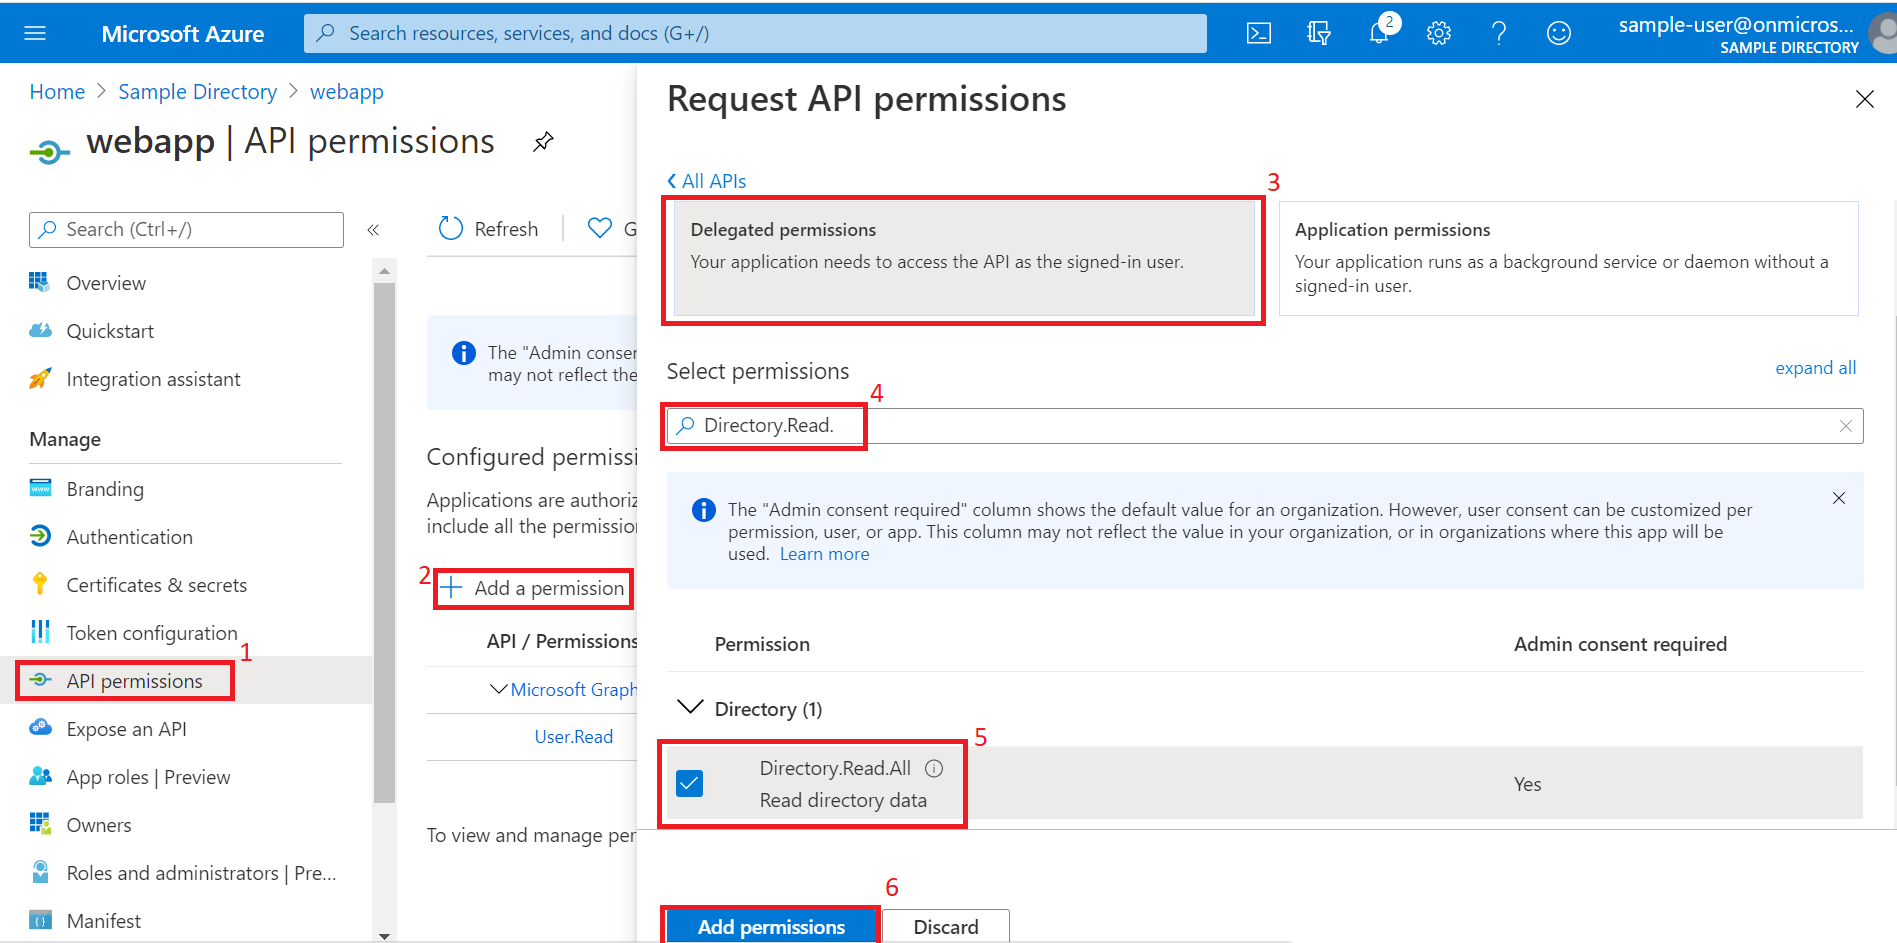
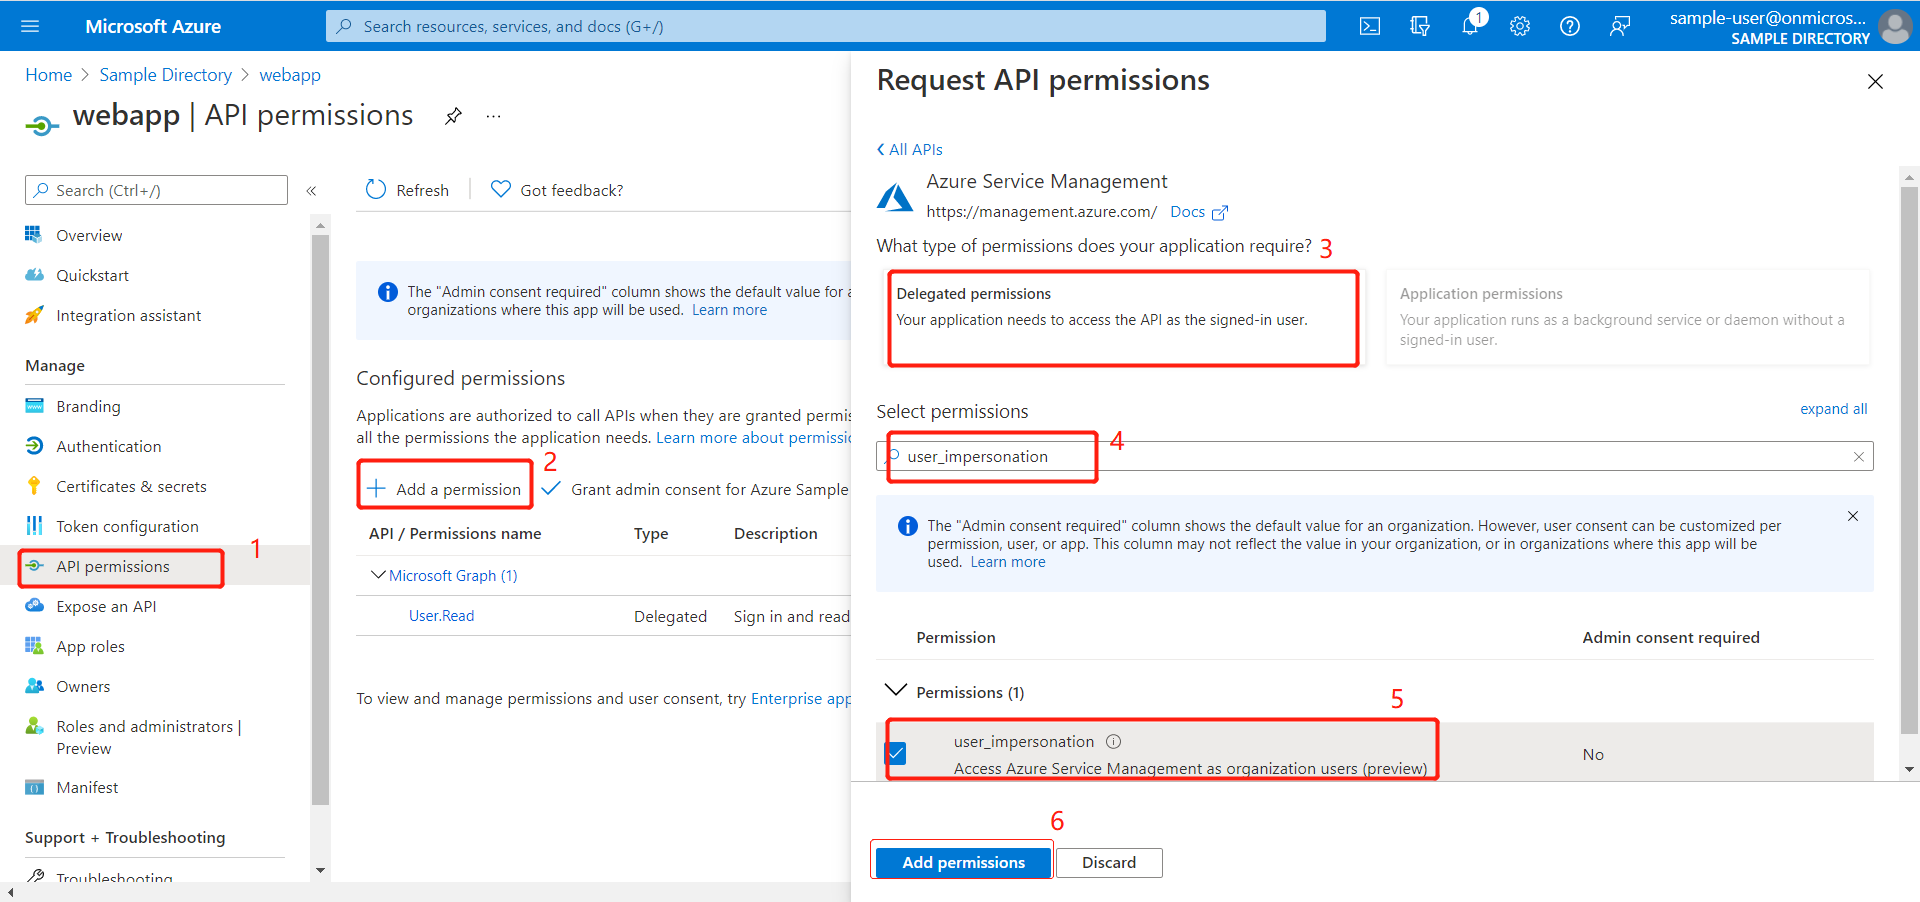
1.remove admin consent for unnecessary scope 2.add describe about appRole.

diff --git a/aad/azure-spring-boot-starter-active-directory/aad-web-application-and-resource-server/README.md b/aad/azure-spring-boot-starter-active-directory/aad-web-application-and-resource-server/README.md
@@ -22,6 +22,10 @@ We assume that when used as a Resource server, it is called `WebApiC`; when used
 
 See [Configure web application] for more information about web app.
 
+### Configure AppRoles for sign in user
+
+See [Configure AppRoles for sign in user] for more information about appRoles for sign in user.
+
 ### Configure groups for sign in user
 
 See [Configure groups for sign in user] for more information about groups for sign in user.
@@ -50,6 +54,7 @@ See [Check the authentication and authorization of Web Application] or [Check th
 [Web application and Resource server in one application]: https://github.com/Azure/azure-sdk-for-java/blob/main/sdk/spring/azure-spring-boot-starter-active-directory#web-application-and-resource-server-in-one-application
 [Configure web application]: https://github.com/Azure-Samples/azure-spring-boot-samples/tree/main/aad/azure-spring-boot-starter-active-directory/aad-web-application#configure-web-app
 [Configure groups for sign in user]: https://github.com/Azure-Samples/azure-spring-boot-samples/tree/main/aad/azure-spring-boot-starter-active-directory/aad-web-application#configure-groups-for-sign-in-user
+[Configure AppRoles for sign in user]: https://github.com/Azure-Samples/azure-spring-boot-samples/tree/main/aad/azure-spring-boot-starter-active-directory/aad-web-application#support-access-control-by-id-token-in-web-application
 [Configure your middle-tier Web API]: https://github.com/Azure-Samples/azure-spring-boot-samples/tree/main/aad/azure-spring-boot-starter-active-directory/aad-resource-server-obo#configure-your-middle-tier-web-api-a
 [Configure Web API]: https://github.com/Azure-Samples/azure-spring-boot-samples/tree/main/aad/azure-spring-boot-starter-active-directory/aad-resource-server#configure-web-api
 [Check the authentication and authorization of Web Application]: https://github.com/Azure-Samples/azure-spring-boot-samples/tree/main/aad/azure-spring-boot-starter-active-directory/aad-web-application#check-the-authentication-and-authorization

diff --git a/aad/azure-spring-boot-starter-active-directory/aad-web-application/README.md b/aad/azure-spring-boot-starter-active-directory/aad-web-application/README.md
@@ -22,9 +22,7 @@ This sample illustrates how to use `azure-spring-boot-starter-active-directory` 
 1. The registered application name is filled into `webapp`, select **Accounts in this organizational directory only**, click the **register** button.![Register a web app](docs/image-register-a-web-app.png "Register a web app")
 1. Under **webapp** application, select **Certificates & secrets** -> **new client secret**, click the **add** button.(Remember to save the secrets here and use them later.)![Create secrets](docs/image-create-app-secrets.png "Create secrets")![Create secrets](docs/image-secret-value.png "Create Secrets")
 1. Under **webapp** application, select **Authentication** -> **Add a platform**, select **web** platform, redirect urls set to `http://localhost:8080/login/oauth2/code/`, click **configure** button.![Add a platform](docs/image-add-a-platform.png "Add a platform")
-1. Under **webapp** application, select **API permissions** -> **Add a permission**, select **Microsoft Graph**. Next, search `Directory.Read.All` via **select Permissions**, check the check box, click **add permissions** button.(`User.Read` is created automatically, we need to keep it.)![Request Api permission](docs/image-request-api-permissions.png "Request Api permission")
-1. Similarly, add permission **user_impersonation** in **Azure Service Management**,
-   ![Added permissions](docs/image-permissions.png "Added permissions")
+1. Under **webapp** application, select **API permissions** -> **Add a permission**, select **Azure Service Management**. Next, search `user_impersonation` via **select Permissions**, check the check box, click **add permissions** button.(`User.Read` is created automatically, we need to keep it.)![Request Api permission](docs/image-request-api-permissions.png "Request Api permission")
 
 See [Register app], [Grant scoped permission] for more information about web app.
 

diff --git a/aad/azure-spring-boot-starter-active-directory/aad-resource-server-obo/README.md b/aad/azure-spring-boot-starter-active-directory/aad-resource-server-obo/README.md
@@ -42,7 +42,8 @@ We will prepare two applications to demonstrate the dependent calls of resources
 3. **Delegated permissions** is selected by default, Select **WebApiB.ExampleScope** permission, select **Add permission** to complete the process.![Add Permissions](docs/image-add-permissions.png)
 4. Same as the second step above, select ***Web API C*** Application Name.
 5. Manually select **Application Permissions**, Select **WebApiC.ExampleScope** permission, select **Add permission** to complete the process.![Select MyAPIs](docs/image-select-application-permission.png)
-6. Grant admin consent for ***Web API B*** permissions and  ***Web API C*** permissions.![API Permissions](docs/image-add-grant-admin-consent.png)
+6. Grant admin consent for ***Web API C*** permissions. ![API Permissions](docs/image-add-grant-admin-consent.png)
+You can choose ***Revoke admin consent*** by select the ellipsis behind the permissions and select ***Yes, Remove***. ![API Permissions](docs/image-remove-grant-admin-consent.png)
 
 See [OAuth 2.0 On-Behalf-Of flow] for more information about OBO.
 
